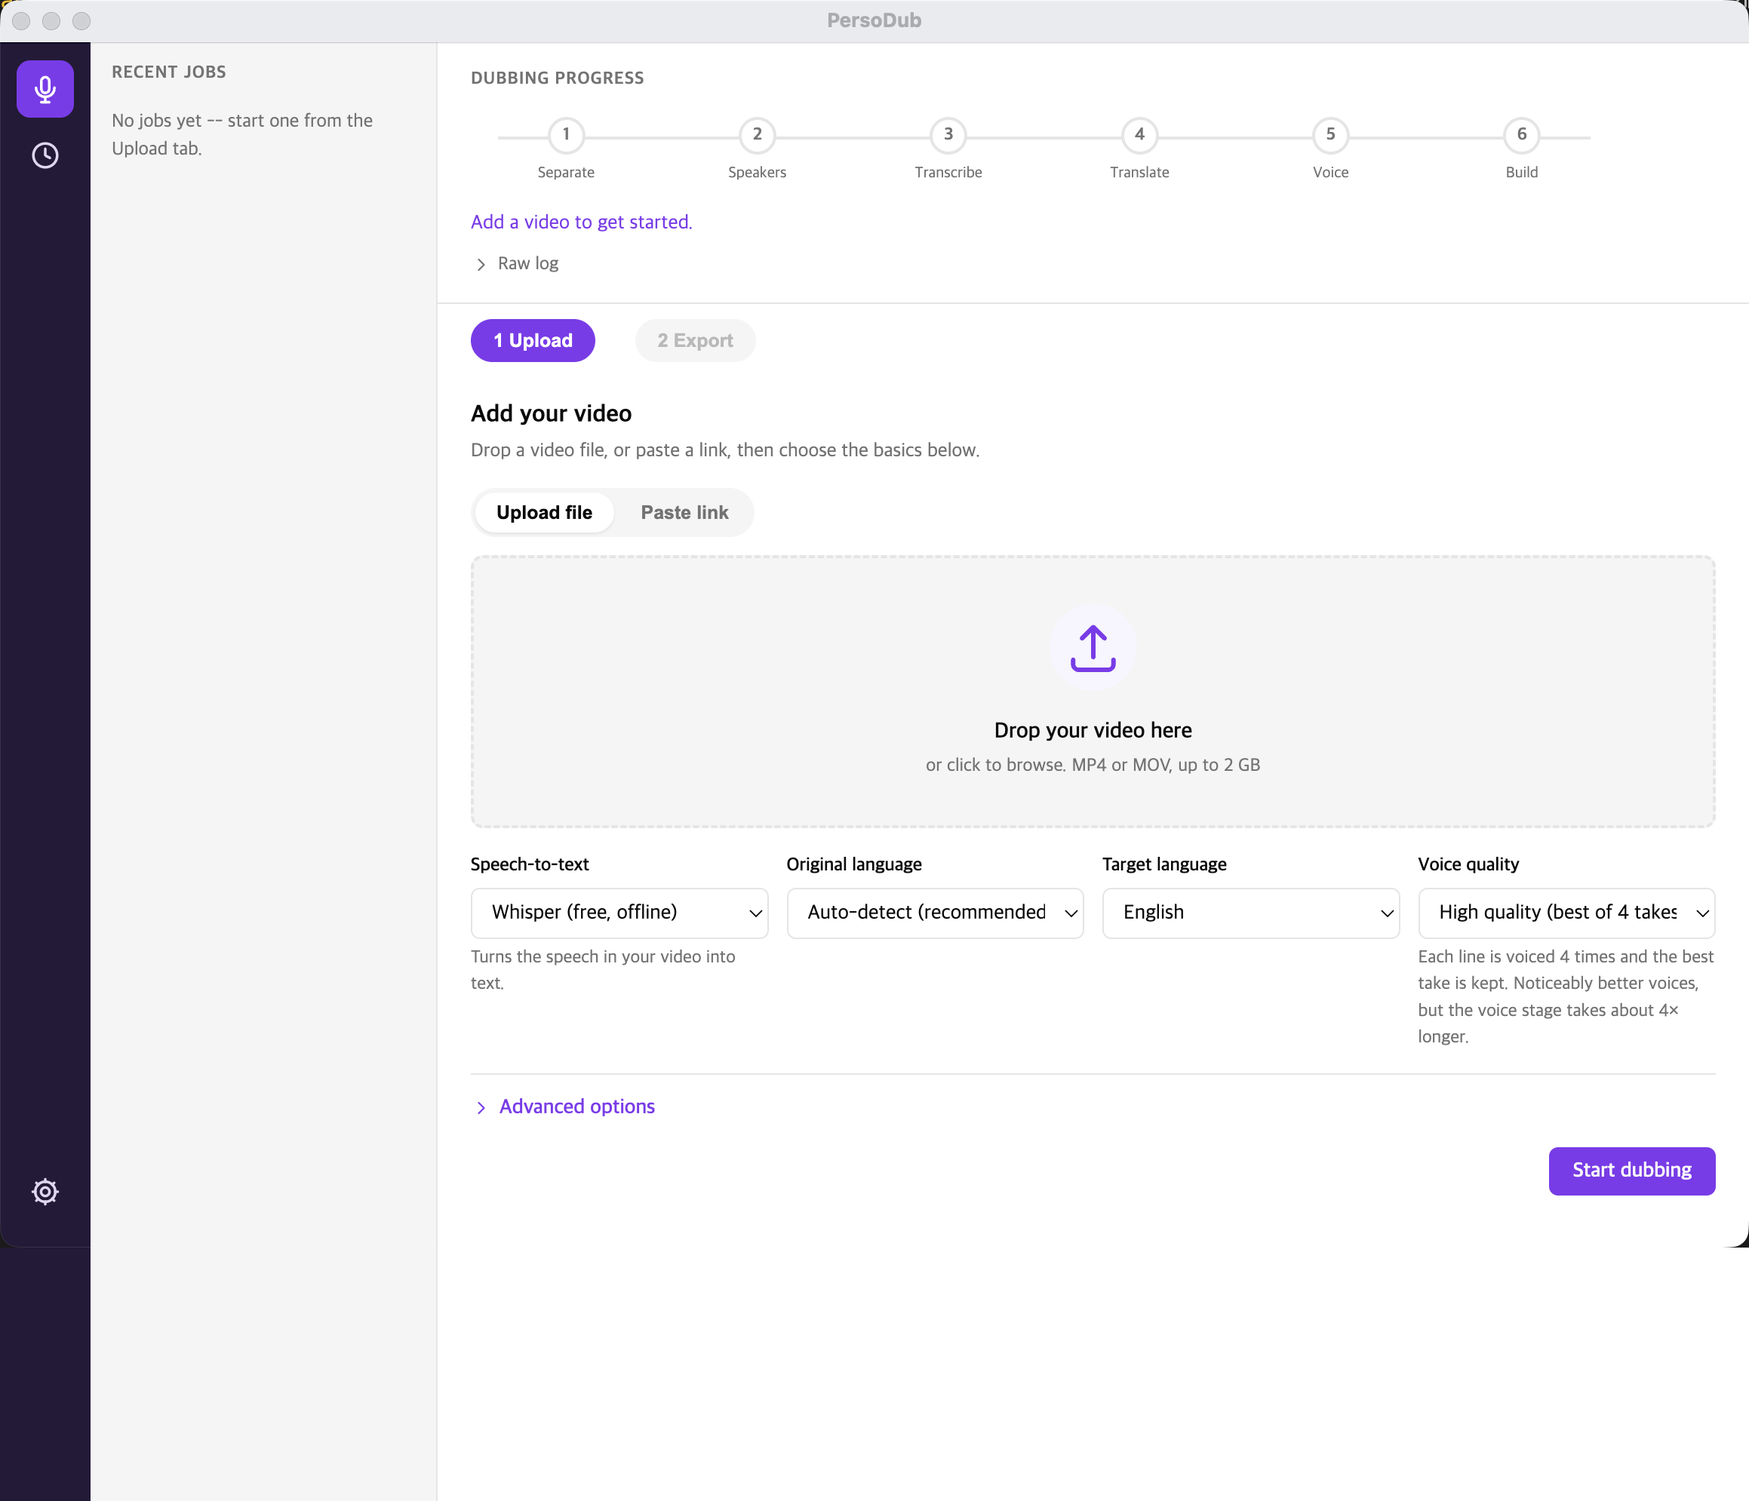
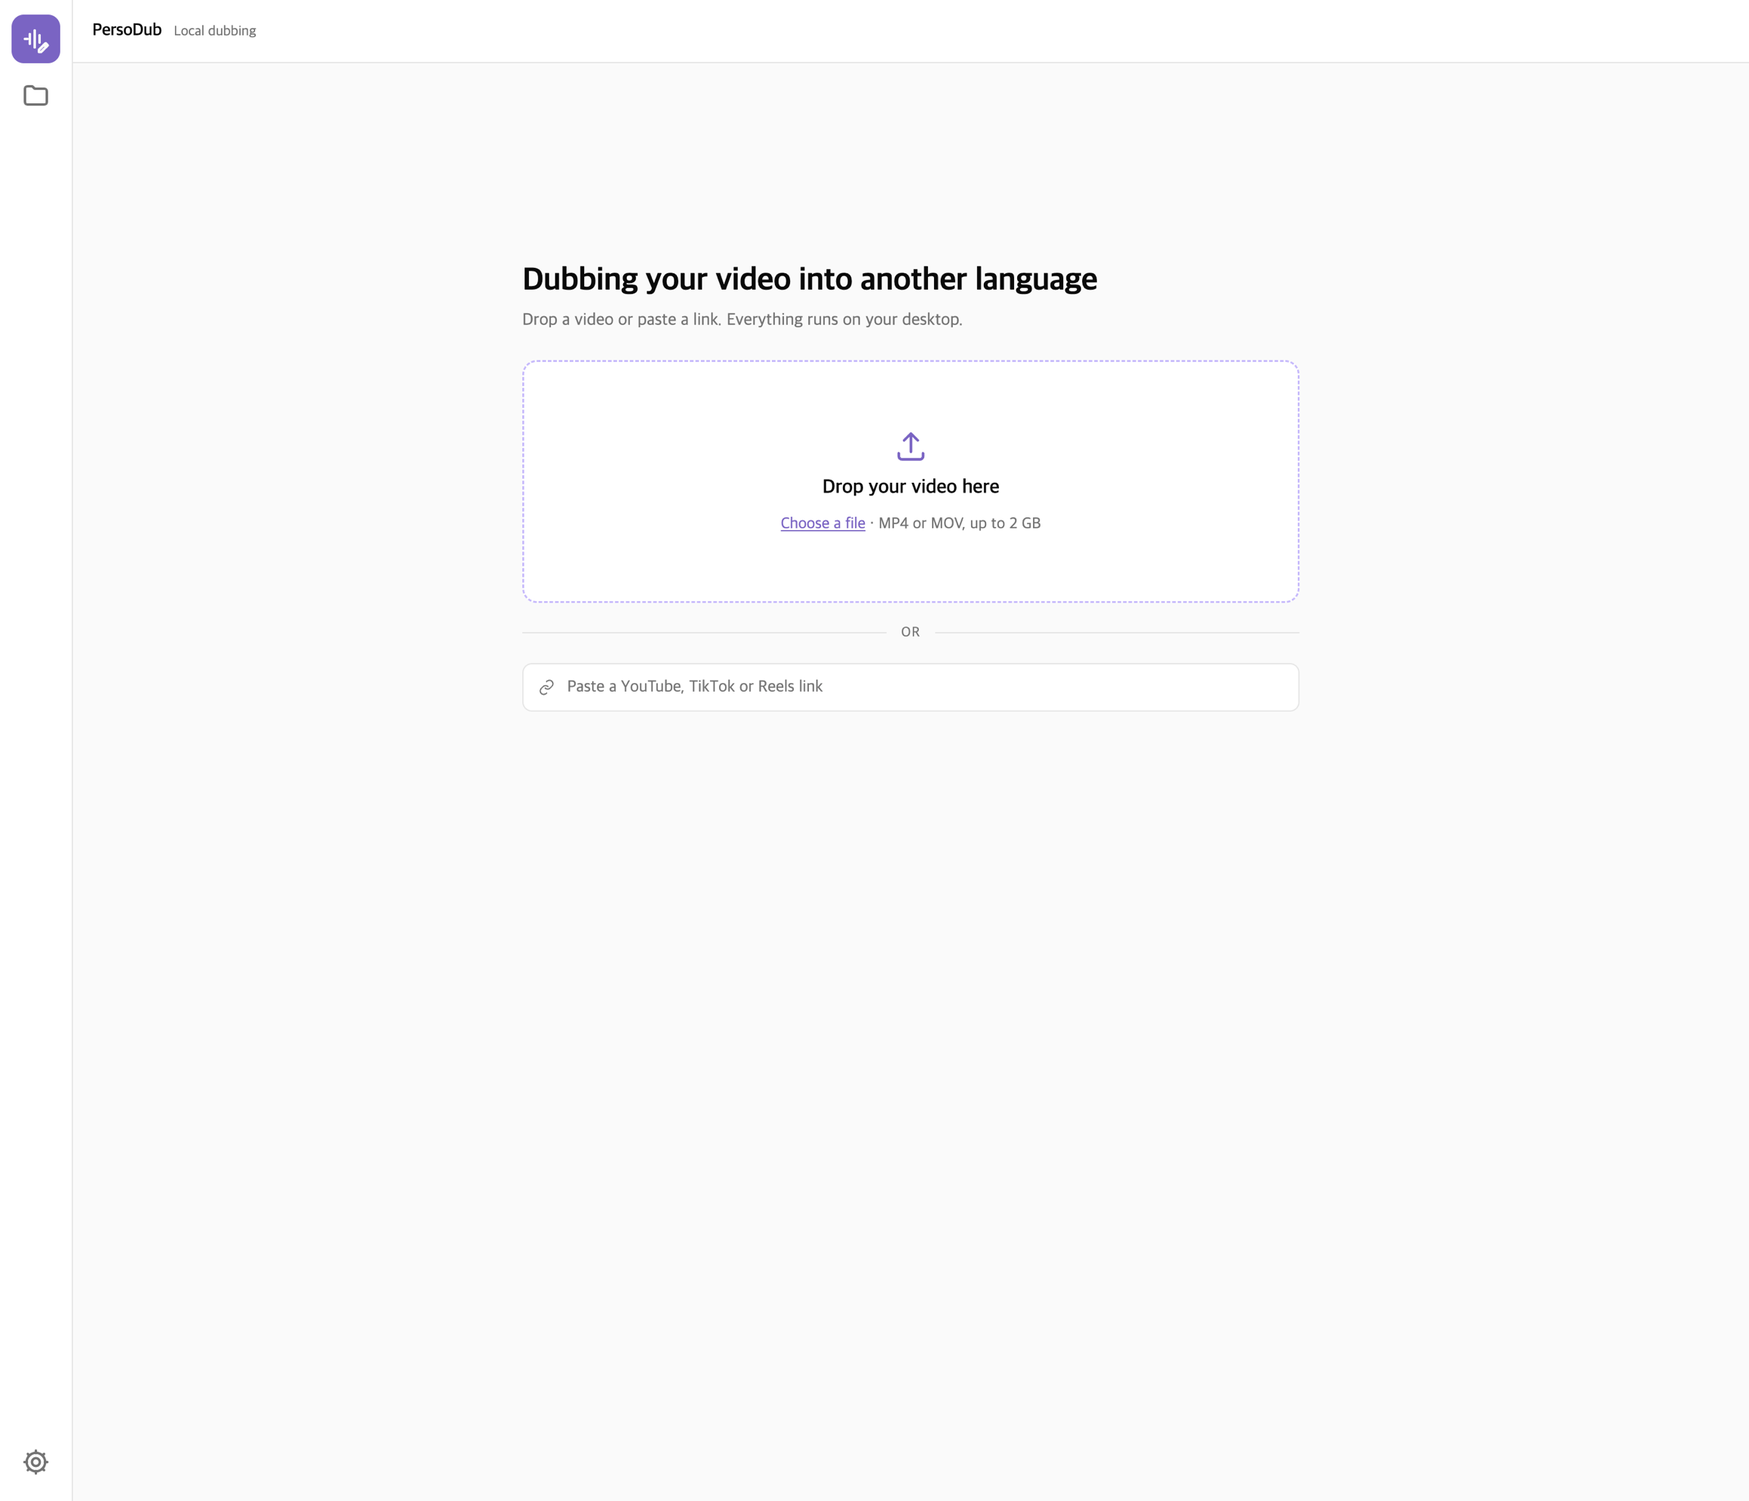
Describe the screens the app actually has now
The walkthrough still described the Upload and Export tabs, which the
redesign replaced with a New project dialog, a running screen and a
finished screen built around the script. Screenshots retaken from the
running app, and the Dub Agent written up in plain words -- including
the part that matters: Codex answers from a read-only sandbox but can
still read files on this Mac, and what it reads goes to OpenAI.

diff --git a/docs/usage.md b/docs/usage.md
@@ -12,71 +12,135 @@ finish; if the app is closed partway through, setup resumes where it left off.
 <img src="images/installing.png" width="100%"
      alt="First-launch setup screen: a numbered list of ten install steps with the finished ones ticked off, and a progress bar underneath.">
 
-Nothing else is needed while this runs. When it completes, the app opens on the
-**Upload** tab.
+Nothing else is needed while this runs. When it completes, the app opens on its first
+screen.
 
-## Dubbing a video
+## The first screen
+
+One question only: which video?
 
 <img src="images/main-window.png" width="100%"
-     alt="PersoDub main window: a drop zone for the video, with pickers for speech-to-text, original language, target language, and voice quality.">
+     alt="PersoDub's first screen: a drop zone for the video, and under it a field for pasting a video link.">
 
-1. **Add your video.** Drop a file onto the upload area, click it to browse, or paste a
-   video link. MP4 and MOV are accepted, up to 2 GB.
+Drop a file onto the drop zone, click **Choose a file** to browse, or paste a video
+link. MP4 and MOV are accepted, up to 2 GB. A link is fetched to your machine first;
+see [Dubbing from a link](privacy.md#dubbing-from-a-link).
 
-2. **Speech-to-text** — turns the speech in your video into text.
+## New project
 
-   | Option | Notes |
-   |---|---|
-   | Whisper (free, offline) | Default. Runs on your machine; no account, no key. |
-   | Perso API (paid, best quality) | Needs a Perso API key — see [Settings](#settings). |
+The moment a video (or a link) is ready, the **New project** dialog opens. Everything
+the first screen no longer asks for is in here.
 
-3. **Original language** — leave this on *Auto-detect (recommended)* unless detection
-   gets it wrong.
+<img src="images/new-project.png" width="100%"
+     alt="The New project dialog: the video with its length, a Trim bar under it, pickers for the original and target language, an Advanced options button, and a Start dubbing button.">
 
-4. **Target language** — the language to dub into. Ten are supported: English, Korean,
-   Chinese, Japanese, French, German, Italian, Portuguese, Russian and Spanish.
+**Trim** — the bar under the video picks the part to dub. Drag the two handles, or use
+the play button to hear the selection; the readout shows the selection in
+`hh:mm:ss.d` and how much of the video is left. Leave it alone to dub the whole thing.
+A trimmed video is re-encoded before dubbing starts, which takes a moment but cuts
+exactly where you asked — copying instead would land on the nearest keyframe, seconds
+away.
 
-5. **Voice quality**
+**Original language** — leave on *Auto-detect* unless detection gets it wrong.
 
-   | Option | Notes |
-   |---|---|
-   | Fast (1 voice take per line) | One take per line. |
-   | High quality (best of 4 takes, ~4× slower) | Default. Each line is voiced four times and the best take is kept. Noticeably better voices, but the voice stage takes about 4× longer. |
+**Target language** — the language to dub into. Ten are supported: English, Korean,
+Chinese, Japanese, French, German, Italian, Portuguese, Russian and Spanish.
 
-6. **Start dubbing.** Progress is shown stage by stage in the bar at the top.
+### Advanced options
 
-7. When the job finishes, the **Export** tab unlocks. Download the dubbed video and the
-   translated `.srt` there. The translated lines are listed beside the player with the
-   time slot each one lands in.
-
-<img src="images/export.png" width="100%"
-     alt="The Export tab of a finished job: the dubbed video with Download video and Download subtitles buttons, and beside them the translated lines with their time slots.">
-
-Finished and in-progress jobs are listed under **Recent jobs** on the left.
-
-## Advanced options
-
-These sit behind the **Advanced options** toggle on the Upload tab. The defaults are the
-fully local, free path and are a good starting point.
+Collapsed by default: the defaults are the fully local, free path and are a good
+starting point.
 
 <img src="images/advanced-options.png" width="100%"
-     alt="Advanced options expanded, showing the translation engine, the text-to-speech engine, and the number of speakers.">
+     alt="The New project dialog with Advanced options open, showing speech-to-text, translation, text-to-speech, voice quality and number of speakers.">
 
 | Field | Default | Notes |
 |---|---|---|
-| **Translation** | Gemma (free, offline) | Translates the transcribed text. The alternative, *Gemini API (paid, best quality)*, needs a Google Gemini key. |
-| **Text-to-speech** | Qwen3-TTS (free, offline) | Speaks the translated lines in the cloned voice. |
-| **Number of speakers** | Auto-detect | Auto-detect currently assumes at least two speakers. Set it to 1 for a single-speaker video. |
+| **Speech-to-text** | Whisper | Turns the speech in your video into text. The alternative, *Perso API*, needs a Perso API key — see [Settings](#settings). |
+| **Translation** | Gemma | Translates the transcribed text. The alternative, *Gemini API*, needs a Google Gemini key. |
+| **Text-to-speech** | Qwen3-TTS | Speaks the translated lines in the cloned voice. |
+| **Voice quality** | Fast | *Fast* voices each line once. *High quality* voices it four times and keeps the best take — noticeably better, and the voice stage takes about 4× longer. |
+| **Number of speakers** | Auto-detect | Auto-detect assumes at least two speakers. Set it to 1 for a single-speaker video. |
 
 An engine that needs a key it cannot find is marked as unavailable rather than
 silently failing.
+
+## While it runs
+
+**Start dubbing** closes the dialog and opens the running screen: your video playing
+blurred behind the card, and the four stages ticking off beside it. The voice stage
+counts the lines as it goes. **Cancel** in the top bar is the way out; the job stops at
+its next stage boundary.
+
+<img src="images/running.png" width="100%"
+     alt="The running screen: the source video blurred on the left, and a card on the right with a progress bar, the finished stages ticked, and the current stage counting voices.">
+
+There is deliberately no "about N minutes left": the four stages take wildly different
+times on different machines, so any estimate would be a promise the app breaks.
+
+## The finished screen
+
+When the job finishes, it opens on the screen the app is really about — the script.
+
+<img src="images/done-screen.png" width="100%"
+     alt="A finished job: the script as a table of numbered lines with their time slots, the original line and the translated line side by side, the player beside it on the Dubbed tab, a timeline underneath, and the Dub Agent strip along the bottom.">
+
+- **The table** is one row per line: its number, who spoke it, its time slot, the
+  original line, the translated line, and how long the voice actually runs.
+- **The play button** beside a line plays just that line.
+- **The waveform button** remakes that line's voice — use it after changing the words.
+  A line you have edited offers **revert**, which puts the translation back.
+- **Original** and **Dubbed** swap which file the player shows.
+- **The timeline** underneath shows each line's slot against the voice made for it:
+  *Voice length*, *Time available*, and *Over time* for a voice that does not fit.
+- **Export** in the top bar hands back the dubbed video, the translated `.srt`, and —
+  for a job that started from a link — the original video.
+- The dividers between the table, the player, the timeline and the agent strip can be
+  dragged, and the sizes are remembered.
+
+The **Speaker** column is filled in only when PersoDub worked out who spoke when. A job
+started from subtitles you supplied (an option of the HTTP API, not of the app's own
+screens) skips that step, so the column stays empty for it.
+
+## The Dub Agent
+
+The strip along the bottom of the finished screen is the Dub Agent. Ask for a fix in
+plain words — "shorten line 4 so it fits, then remake its voice" — and it edits the
+script and remakes voices through PersoDub's own tools, showing each step as it goes.
+
+<img src="images/dub-agent.png" width="100%"
+     alt="The Dub Agent strip open over the finished screen: the question typed at the top, a Reading the script step, and the assistant's answer underneath.">
+
+Pick which assistant answers from the button on the right of the strip. It runs a CLI
+that is **already installed on your Mac** — Claude Code or Codex — and is billed to
+your own account with that vendor. Gemini is listed but greyed out, with the reason on
+the row: Google no longer serves that CLI on a personal account.
+
+The strip is locked while a dub is running: a turn started mid-dub would rewrite a
+script the pipeline is still reading.
+
+What each assistant can reach on your machine — and the fact that **Codex can read
+files on this Mac even in its read-only sandbox** — is spelled out in
+[The Dub Agent and your files](../README.md#the-dub-agent-and-your-files).
+
+## Projects
+
+The folder icon on the left opens **Projects**: every job this app knows about, newest
+first, with a coloured dot for its state. Click one to reopen it — a finished job comes
+back on the finished screen, a failed one on its failure card, with the reason and a
+button to try the same video again. **Delete** removes that job's folder — the dubbed
+video, the script and the voices — and cannot be undone.
+
+The list is built from a `job.json` written next to each job's files, so it survives
+quitting the app. A job that was still running when the app quit comes back as
+interrupted: nothing was left to finish it.
 
 ## Settings
 
 Open Settings with the gear icon at the bottom left of the window.
 
 <img src="images/settings.png" width="100%"
-     alt="The Settings window, with optional API key fields, the output location, a developer-details toggle, and the list of bundled open-source licenses.">
+     alt="The Settings dialog, with optional API key fields, the Perso workspace picker, the output location, the anonymous-usage-counts switch, and the list of bundled open-source licenses.">
 
 **API keys** — both are optional. Without them, PersoDub uses its free local engines
 (Whisper for transcription, Gemma for translation). Keys are saved into the app's own
@@ -87,12 +151,11 @@ config file on your machine. **Restart PersoDub after saving** for them to take 
   credits they use.
 - **Google (Gemini) key** — enables the paid translation path.
 
-**Output location** — read-only for now. Each job's files are managed automatically;
-download them from the Export tab when the job finishes.
+**Output location** — where each job's folder is written. Read-only for now; finished
+videos are never deleted by themselves.
 
-**Developer details** — off by default. When on, a dub shows the detailed stage tracker
-and the raw pipeline log (internal stage names and timings) instead of just the progress
-bar.
+**Privacy** — *Send anonymous usage counts* is four counts and nothing else, never your
+video or files. Turn it off here.
 
 **About** — the app version, and the licenses of the open-source components bundled with
 it. The full text ships inside the app as `NOTICE`.

diff --git a/README.md b/README.md
@@ -38,8 +38,8 @@ It separates speech from background audio, transcribes it, works out who spoke w
 translates each line, clones each speaker's voice, and mixes the result back over the
 original soundtrack. With the default settings, every one of those steps runs locally.
 
-<img src="docs/images/advanced-options.png" width="100%"
-     alt="PersoDub main window with Advanced options expanded: a drop zone for the video, pickers for speech-to-text, original language, target language and voice quality, and below them the translation engine, the text-to-speech engine, and the number of speakers.">
+<img src="docs/images/main-window.png" width="100%"
+     alt="PersoDub's first screen: a drop zone for the video, and under it a field for pasting a video link.">
 
 > **Status: early release (v0.3.6).** PersoDub is usable today and is under active
 > development. macOS on Apple Silicon and Windows (beta) are supported; Linux is planned.
@@ -164,14 +164,30 @@ once; [docs/usage.md](docs/usage.md#first-launch) shows what that screen looks l
 ## Usage
 
 1. Launch **PersoDub**. On first run it downloads its models (see
-   [Requirements](#requirements)); after that it opens straight to the **Upload** tab.
-2. Drop your video onto the upload area, click it to browse, or paste a video link —
+   [Requirements](#requirements)); after that it opens on its first screen, which asks
+   one thing: which video?
+2. Drop your video on the drop zone, click **Choose a file**, or paste a video link —
    MP4 or MOV, up to 2 GB.
-3. Pick the language to dub into from the **Target language** menu — 10 are supported
-   (see [Supported languages](#supported-languages) below).
-4. Click **Start dubbing**. A progress bar at the top tracks each stage as it runs.
-5. When it finishes, the **Export** tab unlocks — download the dubbed video and the
-   translated `.srt` there.
+3. The **New project** dialog opens. Trim the part you want dubbed, pick the original
+   and target languages (10 are supported — see
+   [Supported languages](#supported-languages)), and open **Advanced options** if you
+   want to change an engine.
+4. Click **Start dubbing**. The running screen ticks off the four stages, and counts
+   the lines as it voices them.
+5. When it finishes, the job opens on the finished screen: the script line by line
+   beside the player, a timeline underneath, and **Export** in the top bar for the
+   dubbed video and the translated `.srt`.
+
+<img src="docs/images/done-screen.png" width="100%"
+     alt="A finished job: the script as a table of numbered lines with their time slots, the original line and the translated line side by side, the player beside it on the Dubbed tab, a timeline underneath, and the Dub Agent strip along the bottom.">
+
+Each line has a play button to hear that line alone, and a waveform button to remake
+its voice after you change the words. **Original** and **Dubbed** swap which file the
+player shows. Past jobs are under **Projects**, the folder icon on the left.
+
+The strip along the bottom is the **Dub Agent** — ask for a fix in plain words and it
+edits the script and remakes the voice for you. What it can reach on your machine is
+spelled out in [The Dub Agent and your files](#the-dub-agent-and-your-files).
 
 Engine choices (transcription, translation, quality) live under the **Advanced
 options** toggle, collapsed by default — see [Configuration](#configuration) for what
@@ -214,6 +230,27 @@ content), which you can turn off in **Settings → Privacy**.
 
 Full breakdown — exactly what's sent, what's tracked, and how to opt out of
 everything — is in **[docs/privacy.md](docs/privacy.md)**.
+
+### The Dub Agent and your files
+
+The Dub Agent runs an assistant that is **already installed on your Mac** — Claude
+Code or Codex — as a program on your own machine. PersoDub has no assistant of its
+own, and your video is never sent anywhere for this. What each one can reach differs,
+and the difference is worth knowing:
+
+- **Claude Code** is fenced in to PersoDub's own script tools. Reading files and
+  running shell commands are denied outright, and your own MCP servers are left out.
+- **Codex runs in a read-only sandbox**: it cannot write anywhere, and its shell
+  cannot reach the network. It can still **read any file on this Mac that you can
+  read**, and whatever it reads travels to OpenAI as part of the conversation. If that
+  matters to you, use Claude Code.
+- **Gemini** is listed but greyed out, with the reason on the row: Google no longer
+  serves that CLI on a personal account.
+- The conversation carries on from one job to the next — the assistant is told which
+  project is on screen. The thread is kept by that assistant's own CLI on your
+  machine, so closing PersoDub does not end it.
+
+Whichever you pick answers on your own account with that vendor, and is billed there.
 
 ## Responsible use
 

diff --git a/docs/privacy.md b/docs/privacy.md
@@ -24,6 +24,25 @@ carries no personal data — it is the same anonymous read anyone makes opening 
 releases page. Set `PERSODUB_DISABLE_UPDATE_CHECK=1` in the kit's `kit.env` to turn
 the check off entirely.
 
+## The Dub Agent
+
+The Dub Agent on the finished screen is a third way data can leave this machine, and
+it is worth the same precision. It does not run an assistant of ours: it runs a CLI
+you already have installed — **Claude Code** or **Codex** — as a program on your own
+machine, and that CLI talks to its own vendor on your own account.
+
+| Assistant | What it can reach here | Where the conversation goes |
+|---|---|---|
+| **Claude Code** | PersoDub's own script tools only. Reading files and running shell commands are denied, and your own MCP servers are left out. | Anthropic |
+| **Codex** | Runs in a **read-only sandbox** — it cannot write anywhere, and its shell cannot reach the network. It can still **read any file on this Mac that you can read**. | OpenAI |
+
+In both cases the script of the job on screen is part of the conversation. With Codex,
+so is anything else it chooses to read. Your video is never uploaded for this.
+
+The conversation carries on from one job to the next, and the thread is kept by that
+assistant's own CLI on your machine — closing PersoDub does not end it. Picking no
+assistant means nothing runs and nothing is sent.
+
 ## Usage counts
 
 PersoDub reports four events — app launch, dub finished, dub failed, install failed —
